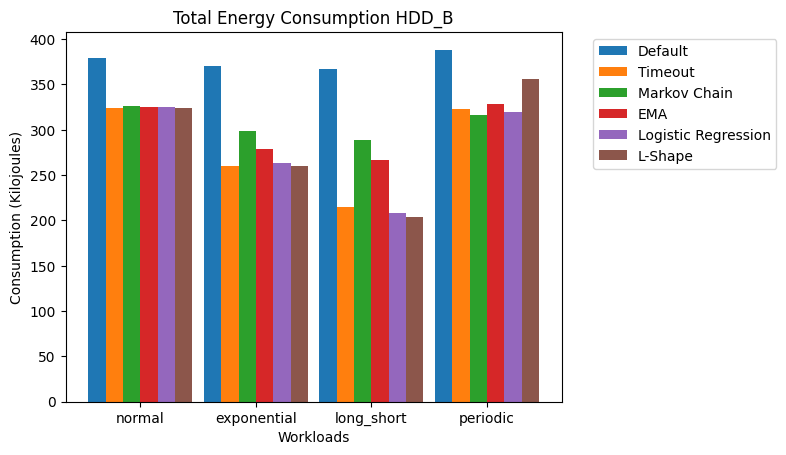
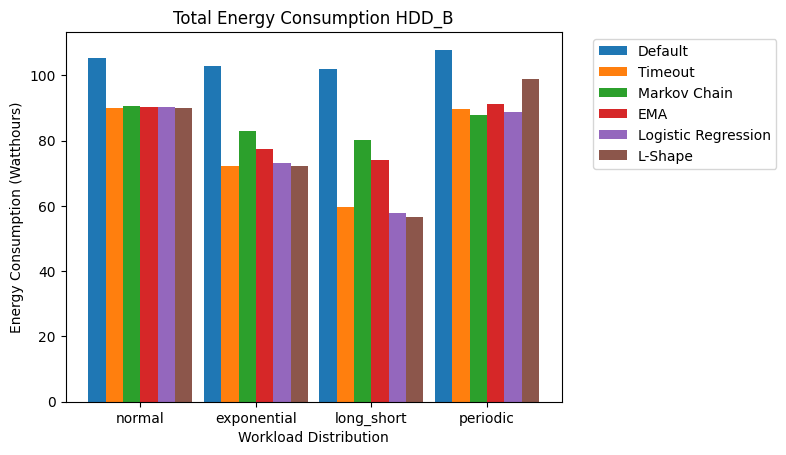
kilojoules -> watthours

diff --git a/get_results.py b/get_results.py
@@ -20,8 +20,8 @@ with open("./results/results.pickle", "rb") as f:
                 stats = R[drive.name][workload_name]
                 values.append(stats["Energy"][i])
             ax.bar(index + i * bar_width, values, bar_width, label=ALGOS[i])
-        ax.set_xlabel("Workloads")
-        ax.set_ylabel("Consumption (Kilojoules)")
+        ax.set_xlabel("Workload Distribution")
+        ax.set_ylabel("Energy Consumption (Watthours)")
         ax.set_title("Total Energy Consumption " + drive.name)
         ax.set_xticks(index + bar_width * (num_algos - 1) / 2)
         ax.set_xticklabels(WORKLOADS)
@@ -39,8 +39,8 @@ with open("./results/results.pickle", "rb") as f:
                 stats = R[drive.name][workload_name]
                 values.append(stats["Wait"][i])
             ax.bar(index + i * bar_width, values, bar_width, label=ALGOS[i])
-        ax.set_xlabel("Workloads")
-        ax.set_ylabel("Seconds per request")
+        ax.set_xlabel("Workloads Distribution")
+        ax.set_ylabel("Milliseconds per request")
         ax.set_title("Average Wait Time Per Request " + drive.name)
         ax.set_xticks(index + bar_width * (num_algos - 1) / 2)
         ax.set_xticklabels(WORKLOADS)

diff --git a/run.py b/run.py
@@ -18,7 +18,7 @@ def run(A: algo.Algorithm, W: list):
             request_count += i
         total_consumption += energy_consumption
         total_wait_time += wait_time
-    return total_consumption/1000, total_wait_time/(1000*request_count)
+    return total_consumption/3600, total_wait_time/(1000*request_count)
 
 
 # test all algorithms on a workload HDD A
@@ -28,7 +28,7 @@ def test_workload(drive_name: str, hd: HDD, workload_name: str, ):
         with open("./workloads/"+drive_name+"/"+workload_name, "rb") as f:
             W = pickle.load(f)
             stats = {
-                "Energy": [], # Total Enery Consumption (Kilojoules)
+                "Energy": [], # Total Enery Consumption (Watthours)
                 "Wait": [] # Average wait time per request (s/request)
             }
 
